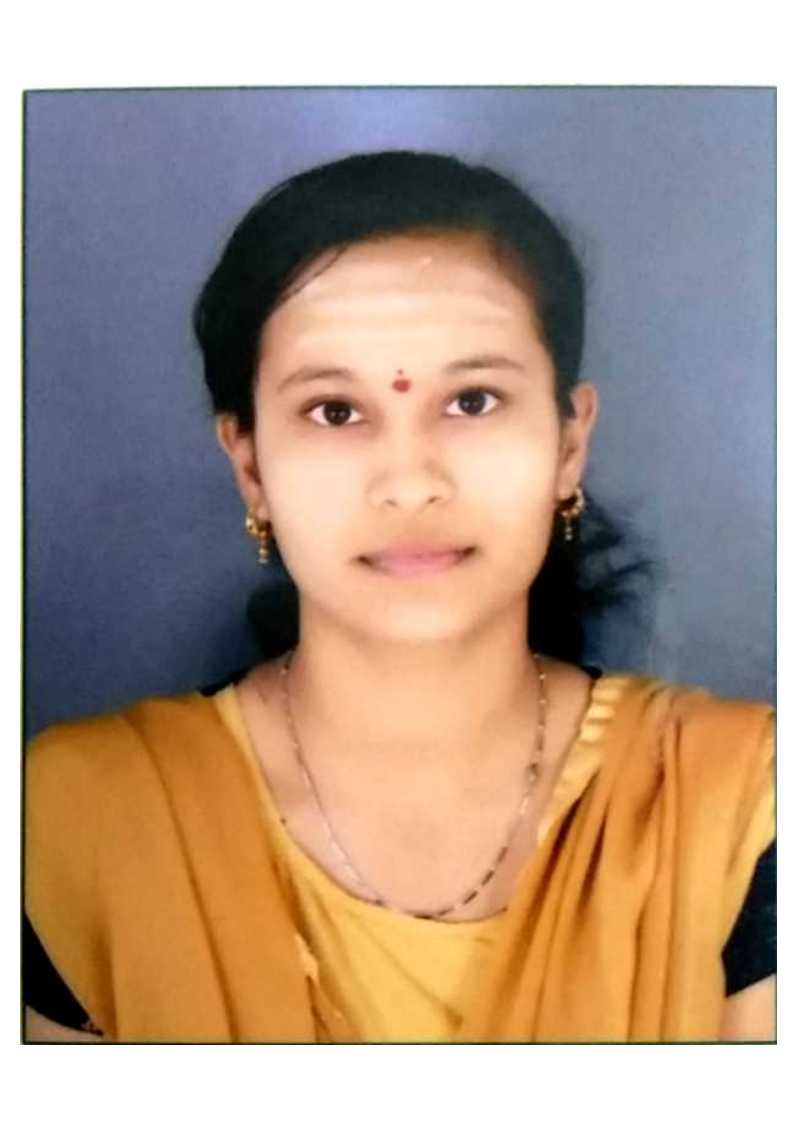
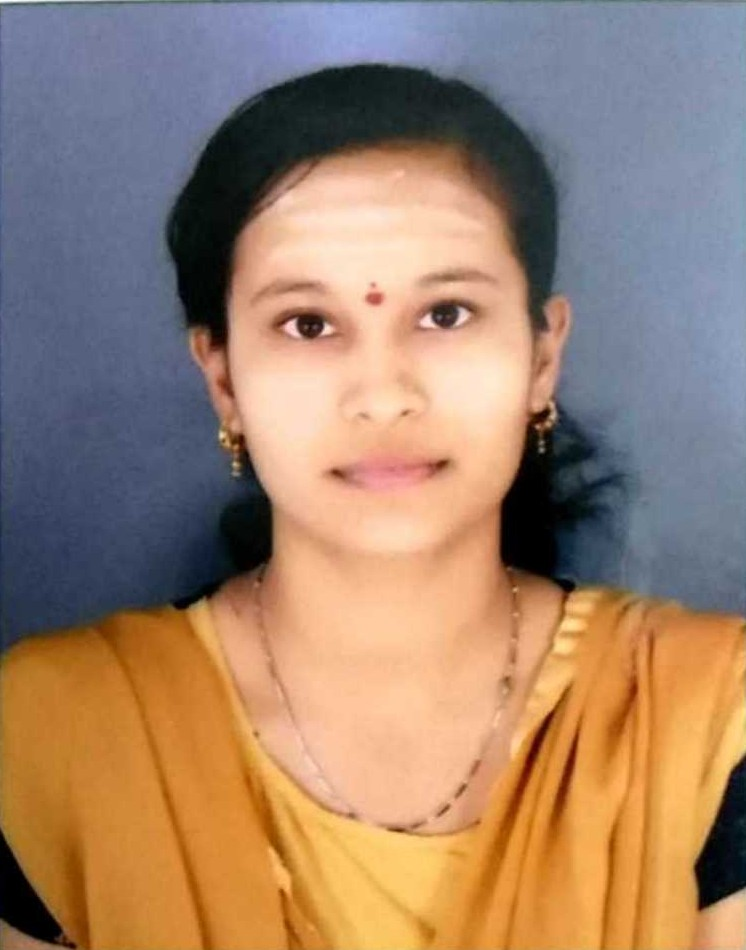
edit image

diff --git a/index.html b/index.html
@@ -122,7 +122,7 @@
     .about-content { display: grid; grid-template-columns: 1fr 2fr; gap: 4rem; align-items: center; }
     .about-image { position: relative; }
     .about-image::before { content: ""; position: absolute; top: -20px; left: -20px; right: -20px; bottom: -20px; background: var(--gradient-primary); border-radius: 24px; z-index: -1; opacity: 0.2; filter: blur(20px); }
-    .about-image img { width: 100%; max-width: 400px; height: 400px; object-fit: cover; border-radius: 20px; border: 2px solid var(--border-primary); }
+    .about-image img { width: 100%; max-width: 350px; height: 400px; object-fit: cover; border-radius: 20px; border: 2px solid var(--border-primary); }
     .about-text p { font-size: 1.05rem; color: var(--text-secondary); margin-bottom: 1.5rem; line-height: 1.8; }
 
     /* EXPERIENCE — NEW SECTION */
